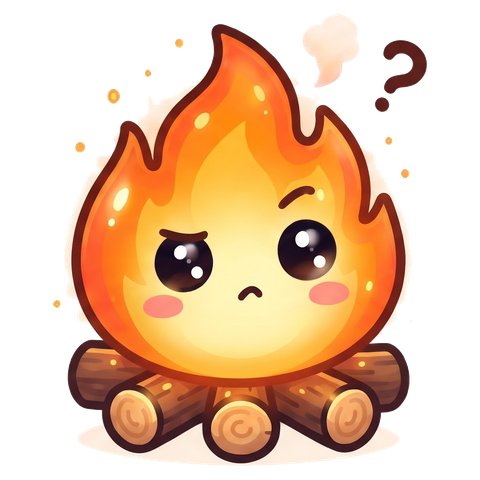
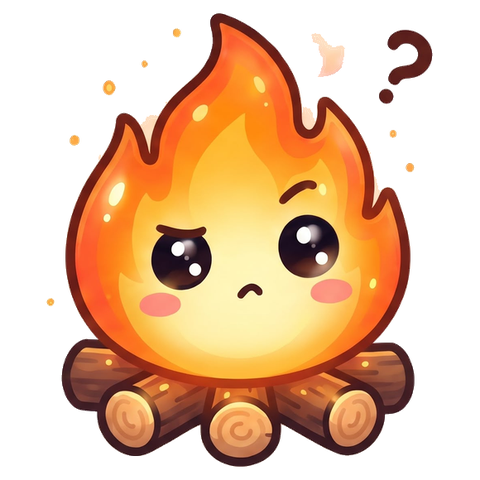
Burbuja de Chispa siempre encima del teclado, Chispa sin borde blanco, iconos de Casa y Agenda
Claude-Session: https://claude.ai/code/session_01M3rsgQPDVC5GU13Uod9RZr

diff --git a/src/componentes/Burbuja.jsx b/src/componentes/Burbuja.jsx
@@ -29,6 +29,19 @@ export default function Burbuja({ contexto, animo, alCambiarAnimo, alCerrar, alG
 
   useEffect(() => { campo.current?.focus() }, [])
 
+  // El velo ocupa solo la parte visible de la pantalla, para que el teclado no tape la burbuja
+  const [visible, setVisible] = useState(null)
+  useEffect(() => {
+    const vv = window.visualViewport
+    if (!vv) return
+    const medir = () => setVisible({ top: vv.offsetTop, height: vv.height })
+    medir()
+    vv.addEventListener('resize', medir)
+    vv.addEventListener('scroll', medir)
+    return () => { vv.removeEventListener('resize', medir); vv.removeEventListener('scroll', medir) }
+  }, [])
+  const tamanoChispa = Math.round(Math.max(80, Math.min(150, (visible?.height ?? 700) * 0.22)))
+
   async function entender(e) {
     e?.preventDefault()
     if (!texto.trim() || ocupado) return
@@ -72,9 +85,9 @@ export default function Burbuja({ contexto, animo, alCambiarAnimo, alCerrar, alG
   const quitar = (i) => setOrdenes((l) => l.filter((_, j) => j !== i))
 
   return (
-    <div className="velo velo-chispa" onClick={alCerrar}>
+    <div className="velo velo-chispa" onClick={alCerrar} style={visible ? { top: visible.top, height: visible.height, bottom: 'auto' } : undefined}>
       <div className="chispa-encima" onClick={(e) => e.stopPropagation()}>
-        <Personaje animo={animo} tamano={150} />
+        <Personaje animo={animo} tamano={tamanoChispa} />
       </div>
       <div className="burbuja" onClick={(e) => e.stopPropagation()}>
         {!ordenes && (

diff --git a/src/estilos.css b/src/estilos.css
@@ -311,7 +311,9 @@ h1 .icono-img, h2 .icono-img { display: inline-block; width: 1.3em; height: 1.3e
 @keyframes aparecer { from { opacity: 0; } }
 .chispa-encima { margin-bottom: -18px; z-index: 1; animation: asomar 0.35s cubic-bezier(0.3, 1.5, 0.6, 1); }
 .chispa-encima .personaje { pointer-events: none; animation: flotar 2.4s ease-in-out infinite; }
-.chispa-encima .llama { width: min(150px, 20dvh); height: auto; filter: drop-shadow(0 8px 18px rgba(232, 131, 58, 0.45)); }
+.chispa-encima .llama { height: auto; filter: drop-shadow(0 8px 18px rgba(232, 131, 58, 0.45)); }
 @keyframes asomar { from { transform: translateY(60px) scale(0.6); opacity: 0; } }
 @keyframes flotar { 50% { transform: translateY(-6px); } }
-.velo-chispa .burbuja { max-height: calc(75dvh - min(150px, 20dvh)); }
+.velo-chispa { justify-content: flex-end; }
+.velo-chispa .burbuja { max-height: none; flex-shrink: 1; min-height: 0; overflow-y: auto; }
+.chispa-encima { flex-shrink: 0; }

diff --git a/src/pantallas/Agenda.jsx b/src/pantallas/Agenda.jsx
@@ -3,6 +3,7 @@ import { supabase } from '../supabase.js'
 import { useTabla } from '../useTabla.js'
 import { aISO, deISO, hoyISO, fechaBonita } from '../fechas.js'
 import Avatar from '../componentes/Avatar.jsx'
+import Icono from '../componentes/Icono.jsx'
 
 export const TIPOS = {
   plan: { nombre: 'Plan', icono: '🎉', color: '#4a90c2' },
@@ -100,7 +101,7 @@ export default function Agenda({ sesion, avisar }) {
 
   return (
     <div className="pantalla">
-      <h1>📅 Agenda</h1>
+      <h1><Icono img="icono-agenda" /> Agenda</h1>
       <div className="filtros">
         {[['todo', 'Todo'], ...Object.entries(TIPOS).map(([k, v]) => [k, `${v.icono} ${v.nombre}`])].map(([k, n]) => (
           <button key={k} className={`chip boton-chip ${filtro === k ? 'elegido' : ''}`} onClick={() => setFiltro(k)}>{n}</button>

diff --git a/index.html b/index.html
@@ -2,7 +2,7 @@
 <html lang="es">
   <head>
     <meta charset="UTF-8" />
-    <meta name="viewport" content="width=device-width, initial-scale=1, viewport-fit=cover" />
+    <meta name="viewport" content="width=device-width, initial-scale=1, viewport-fit=cover, interactive-widget=resizes-content" />
     <meta name="theme-color" content="#fff4e6" />
     <meta name="apple-mobile-web-app-capable" content="yes" />
     <meta name="mobile-web-app-capable" content="yes" />

diff --git a/src/App.jsx b/src/App.jsx
@@ -16,7 +16,7 @@ const PESTANAS = [
   { id: 'inicio', img: 'chispa-reposo', nombre: 'Hoguera' },
   { id: 'compras', img: 'icono-compras', nombre: 'Compras' },
   { id: 'cocina', icono: '🍳', nombre: 'Cocina' },
-  { id: 'agenda', icono: '📅', nombre: 'Agenda' },
+  { id: 'agenda', img: 'icono-agenda', nombre: 'Agenda' },
   { id: 'casa', img: 'icono-casa', nombre: 'Casa' },
 ]
 
